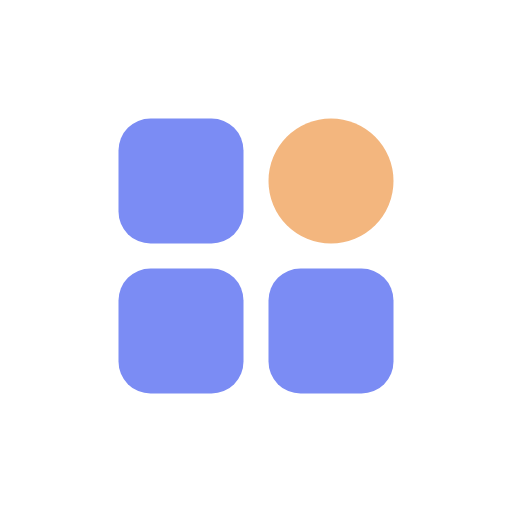
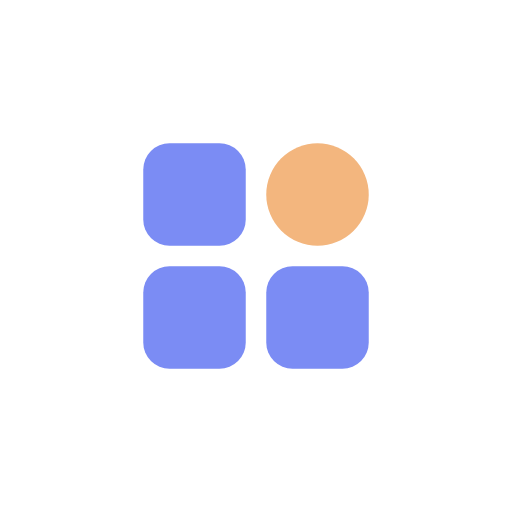
chore(mobile): 적응형 아이콘을 안전 영역 안으로 · 스플래시 글자 크기 맞춤
적응형 아이콘의 보장 안전 영역은 108dp 중 가운데 66dp 원인데, 2×2 타일의
바깥 모서리(반경 362/1024)가 그 밖(313)에 있어 원형 마스크에서 깎였다.
글리프를 0.82 로 줄여 앞면·단색 둘 다 안에 들게 했다. iOS 아이콘은 마스크가
정사각이라 그대로 둔다.

스플래시 워드마크는 바로 다음 화면(로그인)이 그리는 38dp 와 같게 — 전환 순간
로고가 1.5배로 튀지 않게. 태그라인은 caption(12) 아래로 내려가지 않게 14.
타일은 100dp 로 살짝 줄여 200dp 상자에 들어가게 했다.

적응형 배경은 단색이라 PNG 를 빼고 backgroundColor 만 둔다 — 같은 값이 두 곳에
있으면 한쪽만 고쳐질 때 조용히 갈라진다.

Claude-Session: https://claude.ai/code/session_01KG98qXi13BgzfHhgxb6SHJ

Changed region(s): [[0.2188, 0.2188, 0.7812, 0.7812], [0.5312, 0.4062, 0.5938, 0.4688]]

diff --git a/docs/02-MVP-출시-체크리스트.md b/docs/02-MVP-출시-체크리스트.md
@@ -162,7 +162,7 @@ Railway 에 올라가 있고 Postgres 를 본다. `https://dalsalim-production.u
 
 - [ ] Expo 계정 + `eas.json` 작성
 - [ ] `eas build --platform android --profile preview` → APK (가족 내부 배포는 이걸로 충분)
-- [ ] **앱 아이콘 / 스플래시 실제 디자인** — 지금은 Expo 기본 이미지 그대로다
+- [x] **앱 아이콘 / 스플래시 실제 디자인** — "한 달 한 장" 아이콘 · 타일 + 워드마크 스플래시 (PR #46). APK 를 새로 떠야 보인다
 - [ ] `app.json`의 `version` / Android `versionCode` 정책 정하기
 - [ ] **실기기 테스트** — 지금까지 에뮬레이터에서만 확인했다
 - [ ] 작은 화면(폭 360dp)에서 위저드 버튼이 잘리는지
